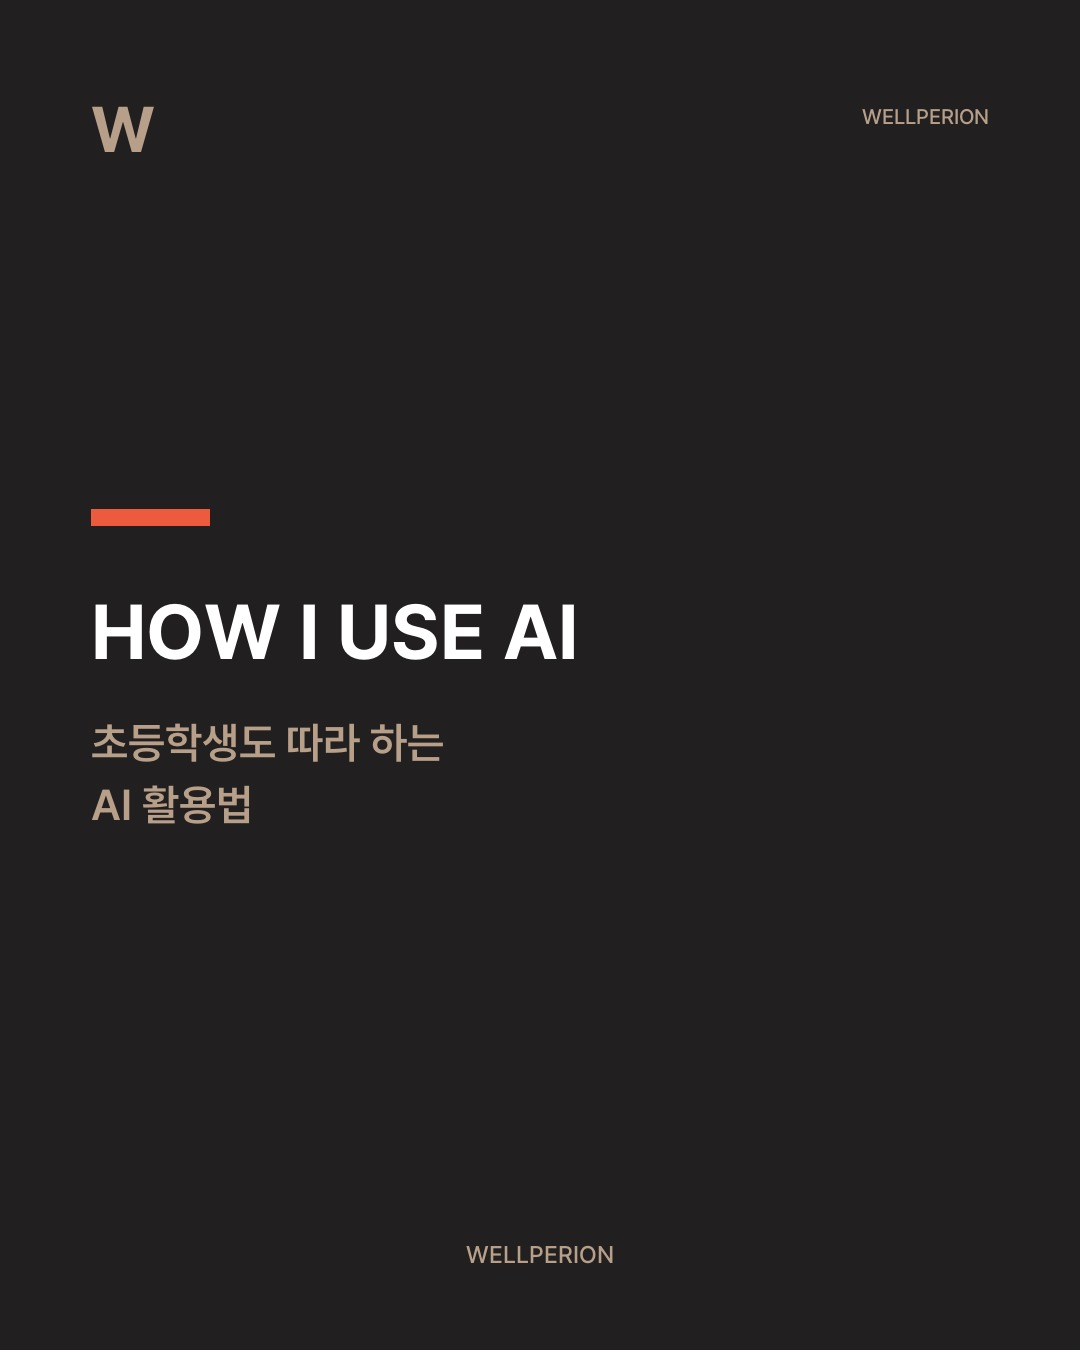
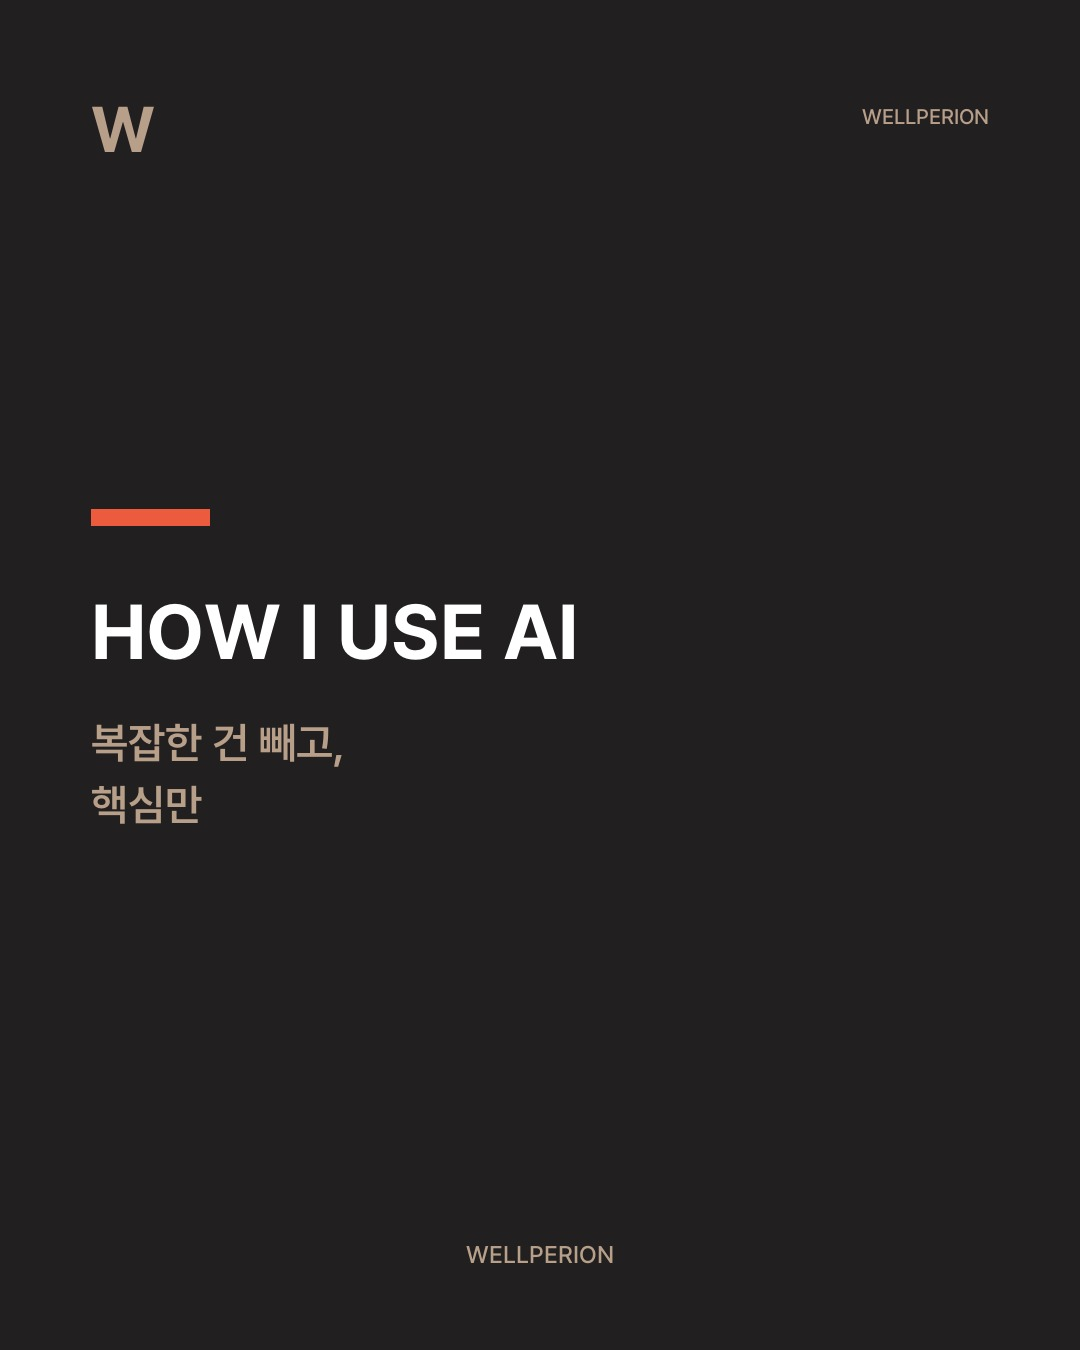
fix(cmo): AI #3편 카피 확정 3건 — 표지부제·초등학생제거·개인계정 CTA
GM 확정(2026-06-02):
1) 표지 부제 교체: '초등학생도 따라 하는' → '복잡한 건 빼고, 핵심만'
   (대제목 HOW I USE AI 유지. 타겟=운동시설 대표 눈높이로 격 상향, 쉬움은 유지)
2) 본문 '초등학생' 단어 점검: 슬라이드 본문(2~12장)·캡션에 노출 0건 확인
   (해당 단어는 표지에만 있었고 #1에서 교체됨. 쉽게 푸는 톤·일상 비유는 유지)
3) 개인계정 CTA 확정: litt.ly 미사용 → 'DM 문의' + '함께 성장합시다' 통일
   · 마지막 장: "함께 성장합시다 / DM으로 문의 주세요"로 다듬음
   · _AI시리즈_로드맵.md에 계정별 CTA 규칙 SOP 추가
     (개인계정=DM+함께성장·litt.ly 미사용 / 회사·공식 IG=litt.ly 유지 명기)
- 12매 재생성 + montage 시각검증 완료
- 발행 안 함: GM 회사 시각 검수 게이트 유지

Changed region(s): [[0.0917, 0.5289, 0.3972, 0.6222]]

diff --git a/instagram/260602_AI3_초등생도AI/build_slides.py b/instagram/260602_AI3_초등생도AI/build_slides.py
@@ -1,8 +1,8 @@
-# 260602 슬라이드 빌드 — 초등학생도 따라 하는 AI 활용 A→Z (AI 시리즈 #3 · namuk.wellperion)
+# 260602 슬라이드 빌드 — 복잡한 건 빼고 핵심만: AI 활용 A→Z (AI 시리즈 #3 · namuk.wellperion)
 # 텍스트 중심(사진 없음) · 브랜드 BLACK 배경 + 베이지 타이포 · main 프리셋
 # "왜AI"(260530) 5장 양식과 일관 — compose_text_slide(main) 그대로 사용, 디자인 코드 재발명 금지
-# GM 사양: 초등학생 눈높이 · 3단 구조(범용 가이드→웰페리온 사례→따라하기) · 매수 많아도 됨
-# CTA: DM 유도(개인계정 톤, litt.ly 강제 없음) · 마지막 장 슬로건+같이성장+DM
+# GM 사양: 대표 눈높이로 쉽게 · 3단 구조(범용 가이드→웰페리온 사례→따라하기) · 매수 많아도 됨
+# CTA(개인계정 확정): litt.ly 미사용 · 'DM 문의' + '함께 성장합시다'로 통일 · 마지막 장 반영
 # 실행: .venv\Scripts\python instagram\260602_AI3_초등생도AI\build_slides.py
 import sys
 from pathlib import Path
@@ -20,7 +20,7 @@ OUT = FOLDER / "output"
 # 3단 구조는 헤딩 번호(①②③)와 montage 그룹으로 표현 (compositor 파라미터 재발명 금지)
 SLIDES = [
     dict(  # 1장 표지
-        kor_title="초등학생도 따라 하는\nAI 활용법",
+        kor_title="복잡한 건 빼고,\n핵심만",
         eng_title="How I Use AI",
     ),
     dict(  # 2장 도입 — 눈높이 낮추기
@@ -116,7 +116,7 @@ def main() -> None:
         brand_key="main",
         logo_style=LOGO_STYLE,
         kor_title="AI를 다루는 대표가\n살아남는다",
-        body="솔직히 저도 아직 부족하고, 배우는 중이에요.\n완벽하진 않아도 같이 성장하고 싶어요.\n\nAI 활용이 궁금한 운동시설 대표님,\n부담 없이 DM 주세요.",
+        body="저도 아직 배우는 중입니다.\n완벽하진 않아도, 함께 성장합시다.\n\nAI 활용이 궁금한 운동시설 대표님,\nDM으로 문의 주세요.",
     )
     print(f"[OK] {last_out.name} - slogan/DM card ({r['size_kb']}KB)")
     paths.append(last_out)

diff --git a/instagram/260602_AI3_초등생도AI/기획_초안.md b/instagram/260602_AI3_초등생도AI/기획_초안.md
@@ -1,20 +1,21 @@
-# 260602 — 초등학생도 따라 하는 AI 활용 A→Z (AI 시리즈 #3 · GM 개인 인스타 namuk.wellperion)
+# 260602 — 복잡한 건 빼고, 핵심만: AI 활용 A→Z (AI 시리즈 #3 · GM 개인 인스타 namuk.wellperion)
 
 작성 1 AI CMO (시모)
 상태 1 초안 (GM 검수 대기 · 발행 금지)
 시리즈 1 AI A~Z #3편 (#1 260529 AI직원효율 / #2 260530 왜AI 의 다음 편)
-주제 1 "어떻게 AI를 활용하는가" A→Z — 초등학생 눈높이. 전문용어 금지, 일상 비유, 천천히·구체적으로.
+주제 1 "어떻게 AI를 활용하는가" A→Z — 대표 눈높이로 쉽게. 전문용어 금지, 일상 비유, 천천히·구체적으로.
 대상 채널 1 GM 개인 계정 namuk.wellperion (회사 계정 아님)
 톤 1 1인칭 진솔·친절. 회원 모집·멤버십 마케팅 톤 금지. "왜AI" 5장과 일관.
-CTA 1 DM 유도 (litt.ly 강제 아님 — 개인계정 톤)
+CTA 1 개인계정 확정 — litt.ly 미사용. 'DM 문의' + '함께 성장합시다'로 통일.
 
-## 0. GM 사양 (2026-06-02 직접 지정)
-- ★초등학생 눈높이★: 어려운 말 빼고, 일상 비유로, 오래 걸려도 천천히 구체적으로. 매수 많아도 됨(친절·구체 우선).
+## 0. GM 사양 (2026-06-02 직접 지정 · 06-02 카피 확정 반영)
+- ★대표 눈높이로 쉽게★: 어려운 말 빼고, 일상 비유로, 천천히 구체적으로. 매수 많아도 됨(친절·구체 우선).
+  (06-02 GM 확정: 표현은 '초등학생' 대신 대표 눈높이로 — 쉬움은 유지, 격은 올림)
 - 3단 구조 필수:
   ① 범용 AI 활용 가이드 — 누구나 따라 하는 기본
   ② 웰페리온 실제 사례 — 우리가 이렇게 쓴다
   ③ "당신도 이렇게 따라 해보세요" — 실천 유도
-- 마지막 슬라이드: 슬로건 "AI를 다루는 대표가 살아남는다" + "나도 부족하지만 같이 성장하자" + DM 유도
+- 마지막 슬라이드: 슬로건 "AI를 다루는 대표가 살아남는다" + "함께 성장합시다" + DM 문의 유도
 - 자동 첨부(기록만, 발행 안 함): 위치=웰페리온 스포츠클럽 / 멘션 @dietcamp_pt @na_daeng @wellperion
 
 ## 1. 핵심 메시지 (한 줄)
@@ -24,7 +25,7 @@ AI는 어려운 게 아니다. '똑똑한 막내 직원'에게 말로 시키듯 
 
 ### 1장 (표지)
 영문 대제목 1 How I Use AI, A to Z
-한글 부제목 1 초등학생도 따라 하는\nAI 활용법
+한글 부제목 1 복잡한 건 빼고,\n핵심만
 
 ### 2장 (도입 — 눈높이 낮추기)
 대제목 1 AI, 어렵게 생각 마세요
@@ -81,12 +82,12 @@ AI는 어려운 게 아니다. '똑똑한 막내 직원'에게 말로 시키듯 
 대제목 1 ③ 익숙해지면 넓혀요
 본문 1 답장 → 정리 → 기획까지\n조금씩 맡기는 일을 늘려보세요.\n어느새 막내 직원 한 명 몫을\nAI가 해주고 있을 거예요.
 
-### 12장 (마무리 — 슬로건 + 같이 성장 + DM)
+### 12장 (마무리 — 슬로건 + 함께 성장 + DM 문의)
 한글 1 AI를 다루는 대표가\n살아남는다
-본문 1 솔직히 저도 아직 부족하고, 배우는 중이에요.\n완벽하진 않아도 같이 성장하고 싶어요.\n\nAI 활용이 궁금한 운동시설 대표님,\n부담 없이 DM 주세요.
+본문 1 저도 아직 배우는 중입니다.\n완벽하진 않아도, 함께 성장합시다.\n\nAI 활용이 궁금한 운동시설 대표님,\nDM으로 문의 주세요.
 
 ## 3. 캡션 초안 (GM이 자기 목소리로 다듬을 여지)
-초등학생도 따라 하는 AI 활용법, A부터 Z까지.
+복잡한 건 빼고 핵심만, AI 활용법 A부터 Z까지.
 
 AI 어렵게 생각하지 마세요.
 말을 알아듣는 똑똑한 막내 직원 한 명이 생겼다고 보면 돼요.
@@ -98,8 +99,8 @@ AI 어렵게 생각하지 마세요.
 여러분도 오늘 딱 하나, 가장 귀찮았던 일을 AI에게 말로 시켜보세요.
 하루 한 번씩만 써보면 일주일 뒤엔 손에 익어요.
 
-솔직히 저도 아직 배우는 중이에요. 완벽하진 않아도 같이 성장하고 싶어요.
-AI 활용이 궁금한 운동시설 대표님, 부담 없이 DM 주세요.
+저도 아직 배우는 중입니다. 완벽하진 않아도, 함께 성장합시다.
+AI 활용이 궁금한 운동시설 대표님, DM으로 문의 주세요.
 
 #AI #AI활용 #챗지피티 #스포츠클럽 #일하는방식 #대표일상 #한남동
 
@@ -109,5 +110,5 @@ AI 활용이 궁금한 운동시설 대표님, 부담 없이 DM 주세요.
 - 업로드 대상 1 namuk.wellperion (GM 개인) — GM 직접 발행
 - 위치 태그 1 웰페리온 스포츠클럽
 - 멘션 1 @dietcamp_pt @na_daeng @wellperion
-- CTA 1 DM 유도 (litt.ly 강제 없음 · 개인계정 톤)
+- CTA 1 개인계정 확정 — litt.ly 미사용 · 'DM 문의' + '함께 성장합시다' 통일
 - 브랜드 1 "피트니스" 미사용→"스포츠클럽" / "현대하이페리온" 미사용→"웰페리온"·"한남동"

diff --git a/instagram/_AI시리즈_로드맵.md b/instagram/_AI시리즈_로드맵.md
@@ -4,7 +4,7 @@
 확정 1 2026-06-02 GM 결정 — AI 콘텐츠를 정식 연재 시리즈로 체계화
 컨셉 1 'AI A~Z' = 스포츠클럽 대표가 AI를 처음부터 끝까지 체계적으로 풀어내는 1인칭 연재
 대상 채널 1 GM 개인 계정 namuk.wellperion (회사 계정 아님)
-톤 1 1인칭 진솔·생각 리더십. 회원 모집·멤버십 마케팅 톤 배제. litt.ly 강제 없음(개인계정 기준).
+톤 1 1인칭 진솔·생각 리더십. 회원 모집·멤버십 마케팅 톤 배제. 개인계정 CTA = DM 문의 + 함께 성장(아래 SOP).
 제작 표준 1 slide_compositor.py compose_text_slide(main 프리셋) 텍스트 중심 양식. 5장 내외(표지+본문+마무리).
 
 ## ★ 계정별 로고 규칙 (2026-06-02 GM 결정 — 전 콘텐츠 공통 SOP)
@@ -19,6 +19,17 @@
 - 회사계정은 기본값(`"full"`)이므로 별도 지정 불필요.
 - 참고: 풀 로고 영문 'SPA & FITNESS'가 브랜드원칙(피트니스 금지→스포츠클럽)과 상충하는 건 별개 사안(회사 로고 자산 차원). 본 로고 규칙과 무관하며 GM 추후 판단. 코드로 로고 PNG 재합성 금지.
 
+## ★ 계정별 CTA 규칙 (2026-06-02 GM 확정 — 전 콘텐츠 공통 SOP)
+대상 계정에 따라 마지막 장·캡션 CTA를 구분한다.
+
+| 계정 | CTA | litt.ly |
+|---|---|---|
+| 개인계정 namuk.wellperion | **'DM 문의' + '함께 성장합시다'** | 미사용(예외) |
+| 회사/공식 IG wellperion | litt.ly 링크 유도 (기존대로) | 사용 |
+
+- 개인계정은 litt.ly를 쓰지 않는다. 마지막 장·캡션 CTA = "함께 성장합시다" + "DM으로 문의 주세요" 톤으로 통일.
+- 본문·캡션에 litt.ly 링크 삽입 금지(개인계정 한정). 회사/공식 IG는 기존대로 litt.ly 유지.
+
 ## 시리즈 흐름 설계 (A~Z = 인식 → 이유 → 실제 → 한계 → 미래)
 처음 두 편이 'AI를 왜 쓰는가(인식·동기)'를 다뤘으니, 이후는 '무엇을·어떻게(실제)' → '주의·한계' → '앞으로(미래)'로 점층한다. 추상 → 구체 → 성찰 순.
 
@@ -28,7 +39,7 @@
 |---|---|---|---|---|---|
 | 1 | 2026-05-29 | 260529_AI직원효율_핵심집중 | AI가 일하고, 사람은 결정한다 | 반복은 AI에게, 핵심(판단·결정)은 사람에게 — 역할을 나눈다 | 발행완료 |
 | 2 | 2026-05-30 | 260530_왜AI_스포츠클럽 | 왜 나는 AI를 쓰는가 | 기술이 멋져서가 아니라, 사람이 해야 할 일을 지키기 위해서 | 발행완료 |
-| 3 | 2026-06-02 | 260602_AI3_초등생도AI | 초등학생도 따라 하는 AI 활용 A→Z | 어려운 말 빼고, AI를 어떻게 쓰는지 천천히·구체적으로 (범용 가이드→웰페리온 사례→따라하기) | 제작완료·GM검수대기(미발행) |
+| 3 | 2026-06-02 | 260602_AI3_초등생도AI(코드명) | 복잡한 건 빼고, 핵심만: AI 활용 A→Z | 어려운 말 빼고, AI를 어떻게 쓰는지 대표 눈높이로 쉽게 (범용 가이드→웰페리온 사례→따라하기) | 제작완료·GM검수대기(미발행) |
 | 4 | 미정 | (예정) | AI를 쓰며 깨진 환상들 | AI는 만능이 아니다 — 시키는 법을 모르면 도구는 멈춘다(한계·오해 정정) | 기획예정 |
 | 5 | 미정 | (예정) | AI에게 무엇을 어디까지 맡기나 | 예약·문의·집계는 AI, 회원·관계·결정은 사람 — 경계가 분명해야 신뢰가 쌓인다 | 기획예정 |
 | 6 | 미정 | (예정) | 작은 가게도 AI 팀을 가질 수 있다 | 사람 1명 규모도 AI로 '팀'처럼 일한다 — 규모의 벽이 무너진다 | 기획예정 |

diff --git a/instagram/260602_AI3_초등생도AI/큐레이션_추천.md b/instagram/260602_AI3_초등생도AI/큐레이션_추천.md
@@ -1,13 +1,14 @@
-# AI #3 큐레이션 — 초등학생도 따라 하는 AI 활용 A→Z
+# AI #3 큐레이션 — 복잡한 건 빼고, 핵심만: AI 활용 A→Z
 
 대상 채널: GM 개인 계정 namuk.wellperion
 톤: GM 개인 인사이트·친절 (회사 멤버십 마케팅 톤 아님). "왜AI" 5장과 일관.
-첨부 순서: 1장~12장 순서대로 (마지막 12장 = 슬로건+DM 카드)
+CTA(개인계정 확정): litt.ly 미사용 · 'DM 문의' + '함께 성장합시다'
+첨부 순서: 1장~12장 순서대로 (마지막 12장 = 슬로건+DM 문의 카드)
 
 ## post A
 
 ### 캡션
-초등학생도 따라 하는 AI 활용법, A부터 Z까지.
+복잡한 건 빼고 핵심만, AI 활용법 A부터 Z까지.
 
 AI 어렵게 생각하지 마세요.
 말을 알아듣는 똑똑한 막내 직원 한 명이 생겼다고 보면 돼요.
@@ -19,8 +20,8 @@ AI 어렵게 생각하지 마세요.
 여러분도 오늘 딱 하나, 가장 귀찮았던 일을 AI에게 말로 시켜보세요.
 하루 한 번씩만 써보면 일주일 뒤엔 손에 익어요.
 
-솔직히 저도 아직 배우는 중이에요. 완벽하진 않아도 같이 성장하고 싶어요.
-AI 활용이 궁금한 운동시설 대표님, 부담 없이 DM 주세요.
+저도 아직 배우는 중입니다. 완벽하진 않아도, 함께 성장합시다.
+AI 활용이 궁금한 운동시설 대표님, DM으로 문의 주세요.
 
 ### 해시태그
 #AI #AI활용 #챗지피티 #스포츠클럽 #일하는방식 #대표일상 #한남동
